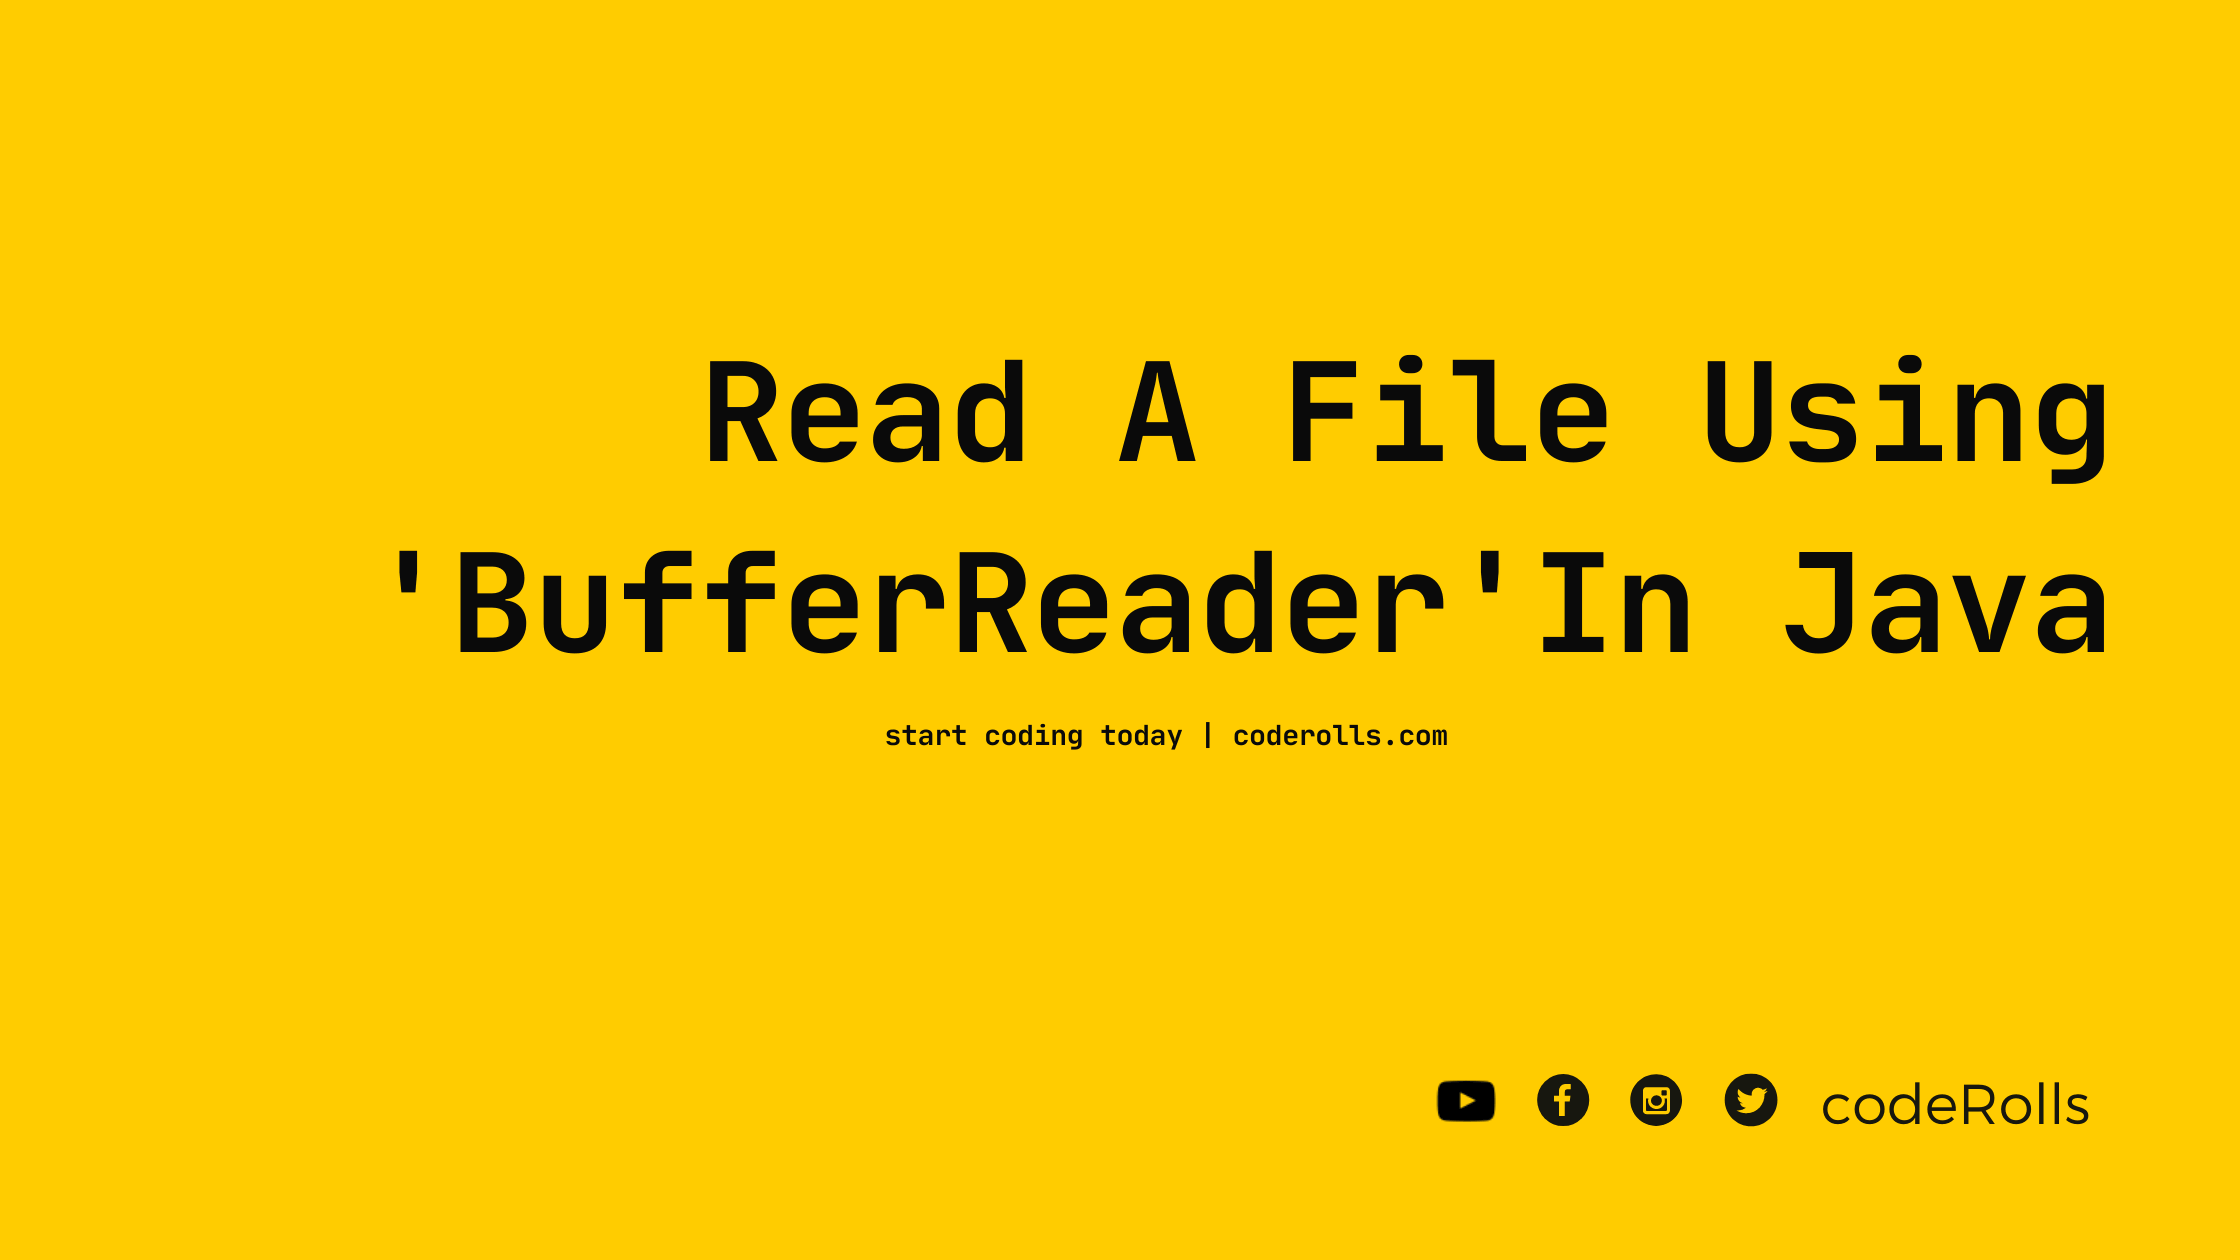
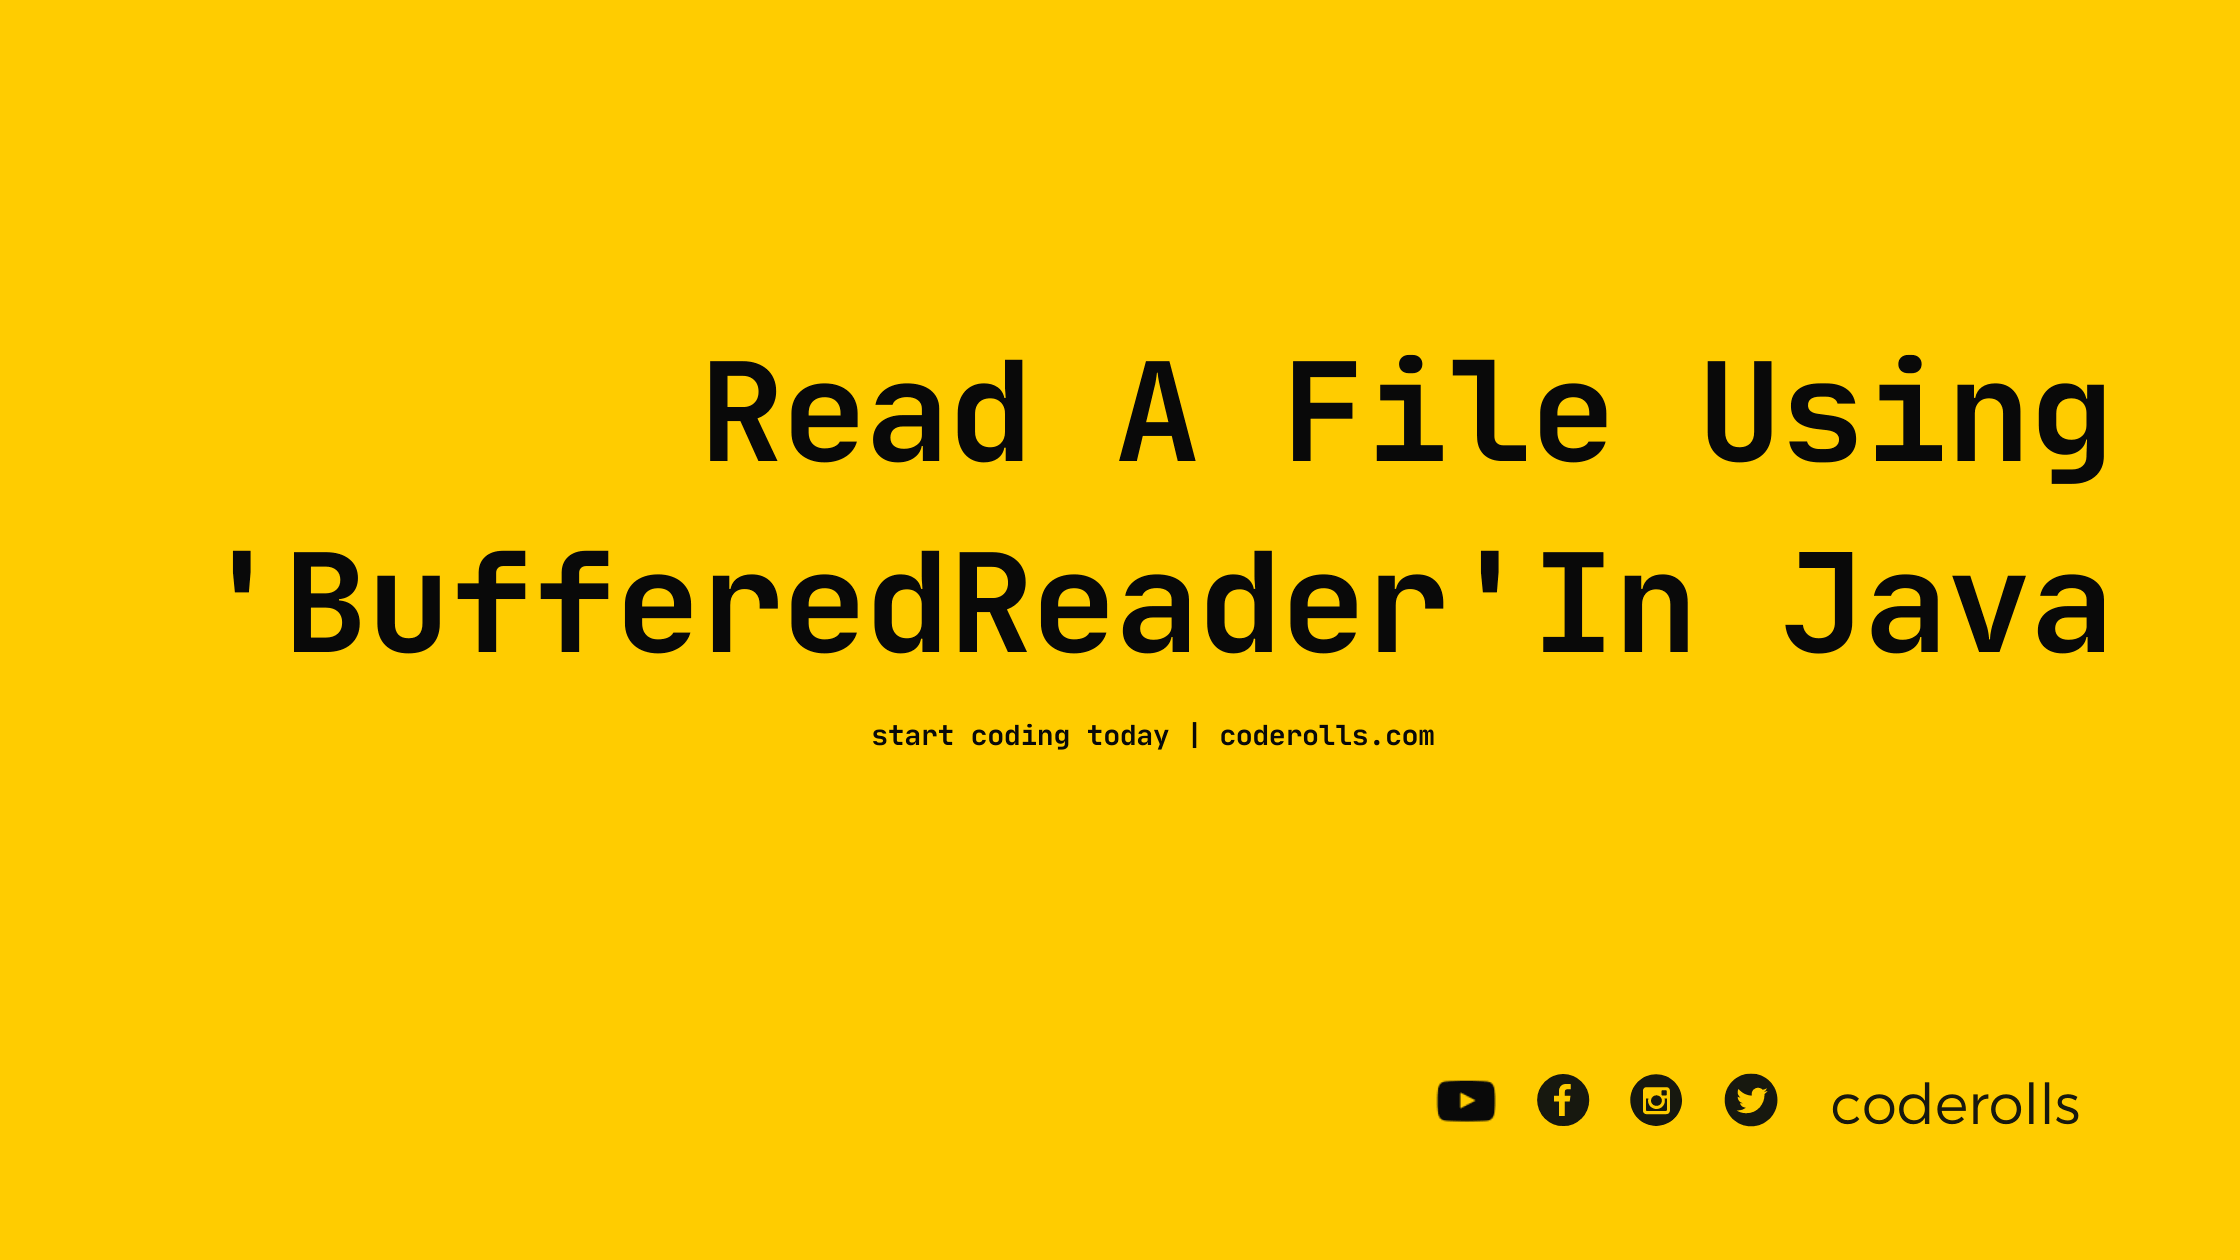
Correct typo
Resolved Conflict

diff --git a/_posts/java-files-io/2021-01-03-read-file-using-bufferreader.md b/_posts/java-files-io/2021-01-03-read-file-using-bufferreader.md
@@ -1,28 +1,28 @@
 ---
 layout: post
-title: "How To Read File Using BufferReader In Java?"
+title: "How To Read File Using BufferedReader In Java?"
 author: gaurav
-image: assets/images/2021-01-03/read-file-using-bufferreader.png
+image: assets/images/2021-01-03/read-file-using-bufferedreader.png
 categories: [Java, Java File IO]
-description: "In this article we will see how to read a file using the `BufferReader` class in Java."
+description: "In this article we will see how to read a file using the `BufferedReader` class in Java."
 ---
 
-In this article we will see how to read a file using the `BufferReader `class in Java.
+In this article we will see how to read a file using the `BufferedReader `class in Java.
 
-`BufferReader` class reads text from a character-input stream. Because of buffering characters it provides an  efficient way to read characters, arrays, and lines.
+`BufferedReader` class reads text from a character-input stream. Because of buffering characters it provides an  efficient way to read characters, arrays, and lines.
 
-`BufferReader` provides two important  methods to read from the file. i.e `read()` and `readLine()`.
+`BufferedReader` provides two important  methods to read from the file. i.e `read()` and `readLine()`.
 
-You can specify the bufferSize in `BufferReader `constructer. But as [motioned in the docs](https://docs.oracle.com/javase/8/docs/api/java/io/BufferedReader.html), 
+You can specify the bufferSize in `BufferedReader `constructer. But as [motioned in the docs](https://docs.oracle.com/javase/8/docs/api/java/io/BufferedReader.html), 
 >The default is large enough for most purposes.
 
-## BufferReader `read()` method
+## BufferedReader `read()` method
 
-`BufferReader` `read()` method reads a single character. IT returns the `int` representation of the char in range of 0 to 65535 (0x00-0xffff), or -1 if the end of the stream has been reached.
+`BufferedReader` `read()` method reads a single character. IT returns the `int` representation of the char in range of 0 to 65535 (0x00-0xffff), or -1 if the end of the stream has been reached.
 
 We can cast `int` value returned by `read()` method to `char` to get the character value.
 
-I have given an example to read a file character by character using the `read()` method of the `BufferReader` class
+I have given an example to read a file character by character using the `read()` method of the `BufferedReader` class
 ```java
 package com.coderolls;
 
@@ -30,11 +30,11 @@ import java.io.*;
 
 /**
  * A java program to read file character by character using the
- * read() method of the BufferReader Class.
+ * read() method of the BufferedReader Class.
  * 
  * @author Gaurav Kukade at coderolls.com
  */
-public class BufferReaderReadMethodExample {
+public class BufferedReaderReadMethodExample {
 
 	public static void main(String[] args) {
 		
@@ -64,9 +64,9 @@ Output
 ```
 Welcome to coderolls.com!
 ```
-See [this example on GitHub](https://github.com/coderolls/blogpost-coding-examples/blob/main/java-files-io/BufferReaderReadMethodExample.java).
+See [this example on GitHub](https://github.com/coderolls/blogpost-coding-examples/blob/main/java-files-io/BufferedReaderReadMethodExample.java).
 
-## BufferReader `readLine()` method
+## BufferedReader `readLine()` method
 As specified in the name, this method reads a line of text.
 
 A line is considered to be terminated by any one of a line feed ('\n') or  a carriage return ('\r').
@@ -82,12 +82,12 @@ import java.io.*;
 
 /**
  * A java program to read file line by line using the
- * readLine() method of the BufferReader Class.
+ * readLine() method of the BufferedReader Class.
  * 
  * @author Gaurav Kukade at coderolls.com
  *
  */
-public class BufferReaderReadLineMethodExample {
+public class BufferedReaderReadLineMethodExample {
 
 	public static void main(String[] args) {
 		
@@ -119,31 +119,33 @@ Welcome to coderolls.com!
 
 Visit coderolls to read more coding tutorials!
 ```
-See [this example on GitHub](https://github.com/coderolls/blogpost-coding-examples/blob/main/java-files-io/BufferReaderReadLineMethodExample.java).
+See [this example on GitHub](https://github.com/coderolls/blogpost-coding-examples/blob/main/java-files-io/BufferedReaderReadLineMethodExample.java).
 
-I have given below a combine example of the Java `BufferReader` `read()` and `readLine()` method below
+I have given below a combine example of the Java `BufferedReader` `read()` and `readLine()` method below
 
 ```java
 package com.coderolls;
 
 import java.io.*;
 
-public class BufferReaderExanple {
+public class BufferedReaderExanple {
 
 	public static void main(String[] args) {
 		BufferedReader bufferedReader = null;
 		try {
+			bufferedReader = new BufferedReader(new FileReader("F:\\sample-text.txt"));
+			System.out.println("Read file using read() method: ");
+			readFileCharacterByCharacter(bufferedReader);
+
 			bufferedReader = new BufferedReader(new FileReader("F:\\sample-text-two-lines.txt"));
+			System.out.println("\n\nRead file using readLine() method: ");
+			readFileLineByLine(bufferedReader);
 			
 		} catch (FileNotFoundException e) {
 			// TODO Auto-generated catch block
 			e.printStackTrace();
 		}
-		
-		readFileCharacterByCharacter(bufferedReader);
-		
-		readFileLineByLine(bufferedReader);
-		
+
 		try {
 			bufferedReader.close();
 		} catch (IOException e) {
@@ -152,7 +154,7 @@ public class BufferReaderExanple {
 	}
 	
 	/**
-	 * A method to read file content character by character using the BufferReader 
+	 * A method to read file content character by character using the BufferedReader 
 	 * read() method
 	 * 
 	 * @param bufferedReader
@@ -170,7 +172,7 @@ public class BufferReaderExanple {
 	}
 	
 	/**
-	 * A method to read file content line by line using the BufferReader 
+	 * A method to read file content line by line using the BufferedReader 
 	 * readLine() method
 	 * 
 	 * @param bufferedReader
@@ -190,19 +192,19 @@ public class BufferReaderExanple {
 }
 ```
 
-See [this example on GitHub](https://github.com/coderolls/blogpost-coding-examples/blob/main/java-files-io/BufferReaderExanple.java).
+See [this example on GitHub](https://github.com/coderolls/blogpost-coding-examples/blob/main/java-files-io/BufferedReaderExanple.java).
 
 ## `newBufferedReader()` method in Java 8 
 
-In Java 1.8 and above you can get a `BufferReader` instance using the `newBufferedReader()` method of the `java.nio.file.Files` class.
+In Java 1.8 and above you can get a `BufferedReader` instance using the `newBufferedReader()` method of the `java.nio.file.Files` class.
 
 ## Conclusion
 
-You can read file character by character using the `read()` method of the `BufferReader`Class.
+You can read file character by character using the `read()` method of the `BufferedReader`Class.
 
 `read()` method returns an integer value, you have to cast it to `char` to get character value.
 
-Also, you can read file line by line using the `readLine()` method of the `BufferReader`Class
+Also, you can read file line by line using the `readLine()` method of the `BufferedReader`Class
 
 `readLine()` methods returns the line content as string, except the line terminating character
 
